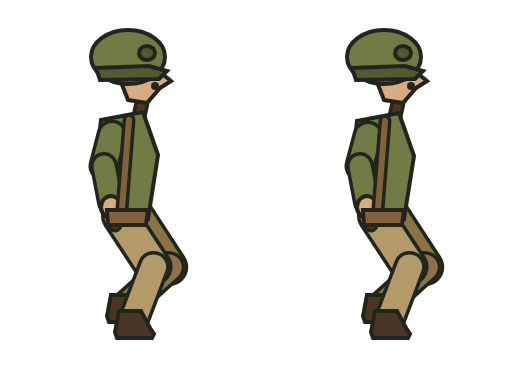
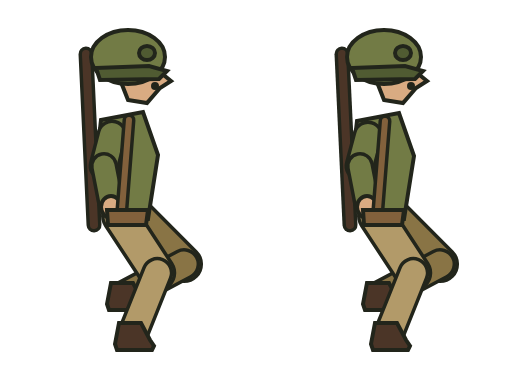
Align direction guides with Tenth round stance, lift and anatomical identity

diff --git a/art/rig/brief09/README.md b/art/rig/brief09/README.md
@@ -1,11 +1,18 @@
-# Brief 09 direction guides — 1 October 2026
+# Brief 09 direction guides — Tenth round corrections, 1 October 2026
 
-These are **anatomical paint guides, not finished sprites**. Never add them to the runtime manifest or promote the walk release gate. Use the approved painted down-v3 soldier for face, helmet, proportions and kit. The simplified guide rendering is not the house-style target.
+These are **paint guides, not finished sprites**. Never add them to the runtime manifest or promote the walk release gate. Use the accepted painted down-v3 soldier for face, helmet, proportions and kit; the simple guide rendering is not the style target.
 
-Four PNGs cover six-frame up/right walks and two-frame up/right idle. Their JSON files record cells, pivot and anatomical foot identity. Right is the near leg in the right-facing view. At contact frame 4 the far/left leg leads; the near/right leg is behind. This must remain visible in the painting.
+Four PNGs cover six-frame up/right walks and two-frame up/right idle. Source cells: **256×384**, pivot **(128,330)**, source density **300/44 = 6.818 px/world**. Deliver painted sources and same-grid accent masks at this density. Claude makes the runtime exports. Do not shrink or repack character sources to 3×. Facility/station layers alone remain fixed at 3 px/world. Lying/sitting/climbing sources keep 6.818 px/world on wider cells, with an explicit consistent body pivot.
 
-Source cells are 256×384, pivot (128,330). The original master has 300 source pixels per 44 world pixels (6.818 source px/world). These are source guides, **not fixed-density 3× runtime exports**. A fixed-density runtime figure is 132 pixels tall; preserving a 256×384 runtime cell and pivot requires repacking that smaller figure, rather than labelling the 300-pixel master “3×”. Claude must confirm the source/export mapping in the station contract before changing character exports. Facility offsets remain exactly 3×.
+## Corrected geometry
 
-Run `node tools/render-direction-contact-guides.cjs` with `@napi-rs/canvas` installed. It regenerates all guides and asserts signed planted-foot cancellation over stance intervals and opposite lead legs in frames 1 and 4. These assertions test geometry/metadata only, not a painted raster or a game clip. Source stance motion is 25 pixels per frame: right decreases x; up increases y. Two idle frames keep both soles fixed, with only a one-pixel body breath.
+- Anatomical right foot plants in frames 1–3 in every view. In up (back view), it is at screen x148; the left foot is at x108. Rifle stays on the anatomical left shoulder, screen-left from behind. Claude's correction is retained.
+- Stance width is 40 source px (5.87 world px) in both views. Up: x108/148. Right: near/right sole ground row350, far/left row310. Idle uses the same spacing.
+- Passing swing-foot lift is 80 source px in both guides, close to the down master's measured82. Up passing sole is row263 versus ground343. Right far passing sole row230 versus ground310; near passing sole row270 versus ground350.
+- Stance-foot movement remains25 source px per frame: right decreases x; up increases y. Contact frames1 and4 plant opposite anatomical feet. No stride, runtime timing or speed changes.
 
-Paint one cell at a time, preserving the actual limb path and sole contact. Reject any painting that redraws the second half as the first half, changes the soldier identity, introduces a backpack, moves the helmet/feet unpredictably or makes the body translucent. Reassemble without automatic per-frame scaling. Export white accent masks on exactly the same canvas. Then run the existing asset/gait validator and a 30-second direction-change/idle clip. No completed painted up/right cycle has been delivered by this pack.
+Run `node tools/render-direction-contact-guides.cjs` with `@napi-rs/canvas` installed. It regenerates the PNGs/JSON and asserts signed cancellation, leg alternation, anatomical up identity,40-pixel width and80-pixel lift. These assertions test geometry, **not painted pixels**. Claude's `node tools/check-direction-guides.cjs` on `brief-09-daily-base` also passes: frame-start drift0, footprint spacing11 world px, runtime density6.818.
+
+The runtime still has3.667 world px of within-frame drift because it moves the body continuously while holding each pose. This occurs in the down master too. No foot-lock change was made. Review the painted cycle in a30-second direction-change/idle clip before deciding on rendering changes or extra frames.
+
+Paint one cell at a time. Preserve the anatomical limb path and sole contact, shared identity, opacity and kit. Reassemble without per-frame resizing. Deliver separate white helmet-band/shoulder accent masks. Run measured-raster foot tracks, asset/gait validation and the game clip before registration. This guide pack does not deliver an approved painted up/right cycle.

diff --git a/CLAUDE_IMPLEMENTATION/09_TENTH_ROUND_ART_RESPONSE.md b/CLAUDE_IMPLEMENTATION/09_TENTH_ROUND_ART_RESPONSE.md
@@ -1,0 +1,13 @@
+# Tenth round art response — 1 October 2026
+
+Read `09_DIRECTION_GUIDE_REVIEW.md` and the Tenth round in `art/CHATGPT_FEEDBACK.md` on `brief-09-daily-base`.
+
+The guide generator and all four source guide PNG/JSON pairs are updated. Claude's anatomical rear correction is retained: right leg on screen-right, rifle on anatomical left shoulder. Right-view stance width increases16→40 source pixels, matching up; idle matches too. Passing-foot lift is80 in both guides, close to the accepted down master's82. All character sources stay at6.818 px/world,256×384 cells and pivot(128,330). Facility art remains3×. The earlier handoff's proposed shrinking/repacking is superseded by Claude's clarified source/export contract.
+
+Validation: regenerated all guides successfully; generator checks exact stance cancellation,40px width,80px lift and opposite contact legs. Ran Claude's `tools/check-direction-guides.cjs` on the gameplay branch: frame-start drift0; footprints11world px; same anatomical right foot plants in frames1–3; density/cell/pivot/stride all agree. These validate guide geometry only. No painted cycle or release gate is approved.
+
+No runtime walking change was made. The3.667-world-pixel within-frame drift remains an explicitly separate presentation decision; freezing the sprite at each frame origin may stop foot drift but introduces stepped body motion. Judge that tradeoff with painted footage, not a metadata pass.
+
+Claude: merge main's additive guide corrections into the gameplay branch, regenerate the overlays/loop and check the changed stance/lift. The script and guide JSONs are authoritative for the next per-cell paintover. Keep templates out of runtime/cache and the art gate blocked. Do not re-layout facilities or merge Brief09 just to consume this correction.
+
+A single-cell rear-contact paintover was trialled with the corrected guide and down-v3 identity. It still moved the measured boot contacts and added an exterior glow. It is rejected and not included as a sprite source. A visually plausible pose is not a measured contact pass.
